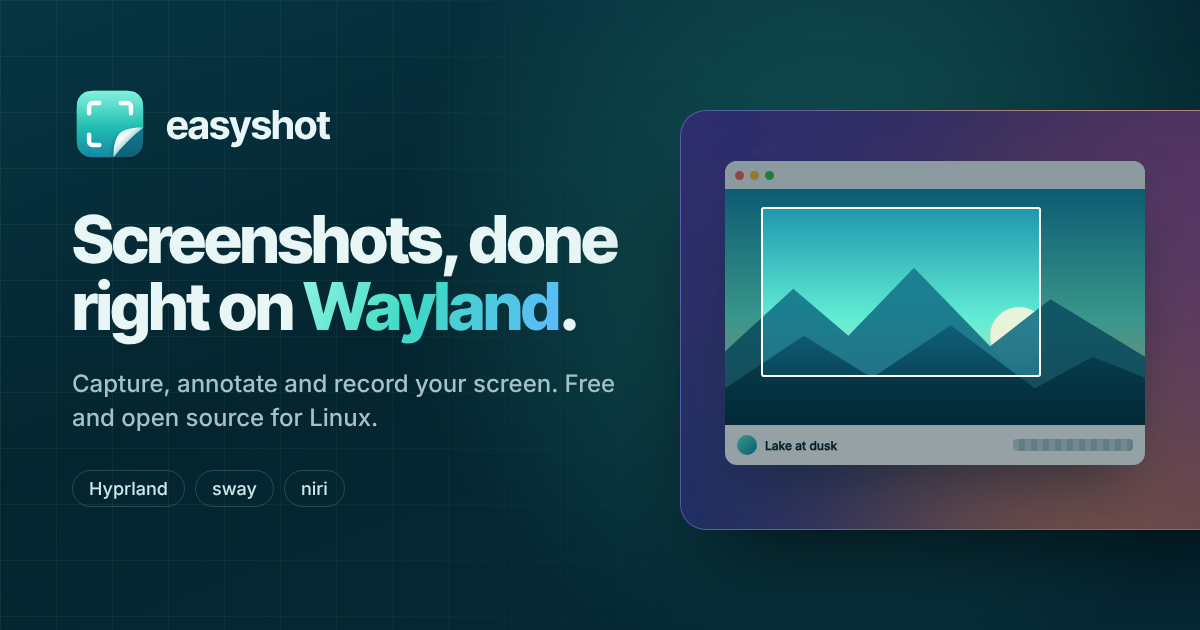
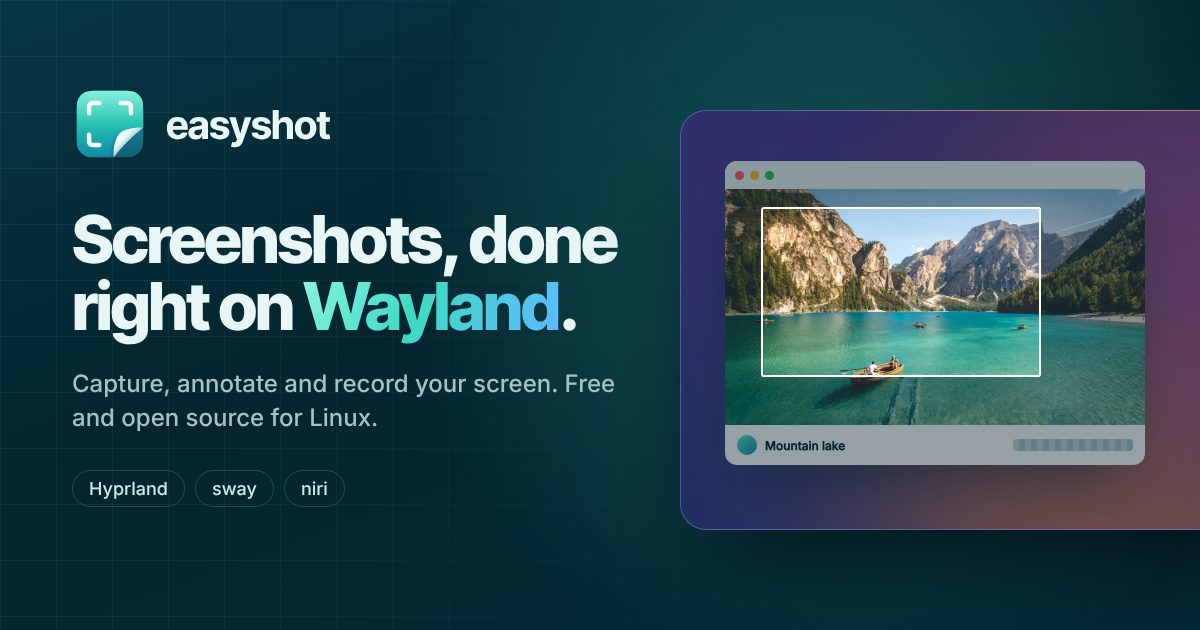
site: host the Unsplash photos, match the early-software status
- The six Unsplash photos are downloaded and served from
  public/img/photos as WebP at five widths, picked with srcset, instead
  of being hotlinked. Each was looked at; the alt texts and titles now
  describe what is in them.
- The OG image shows the lake photo in its captured window.
- The recording mock-up no longer lets the control bar cover the
  window, at any width.
- The FAQ says easyshot is early software, as the manual now does: one
  real session on Hyprland, sway headless only, niri not yet.
- README: how the photos are stored and how to add one.

Claude-Session: https://claude.ai/code/session_01Y8JhFuNa4ejHbJ32YUwwD1

Changed region(s): [[0.5858, 0.3016, 0.9558, 0.7238]]

diff --git a/docs/site/app/components/FeatureBento.vue b/docs/site/app/components/FeatureBento.vue
@@ -25,7 +25,7 @@ const tiles = [
       <div class="pointer-events-none relative mb-5 h-[92px]" aria-hidden="true">
         <!-- area -->
         <div v-if="t.art === 'area'" class="absolute inset-0 overflow-hidden rounded-xl bg-[url(/img/landscape.svg)] bg-cover">
-          <img :src="photoUrl('valley', 640)" alt="" class="absolute inset-0 size-full object-cover" loading="lazy" width="640" height="360" referrerpolicy="no-referrer" onerror="this.style.display='none'" />
+          <img :src="photoUrl('valley', 640)" alt="" class="absolute inset-0 size-full object-cover" loading="lazy" width="640" height="360" onerror="this.style.display='none'" />
           <div class="absolute inset-[18%_30%_18%_22%] rounded border-[1.5px] border-white shadow-[0_0_0_999px_rgba(3,30,40,.35)] transition-all duration-700 ease-out-soft group-hover:inset-[12%_18%_12%_14%]" />
           <span class="absolute right-3 bottom-2 rounded bg-teal-ink/80 px-1.5 font-mono text-[10px] text-white">640 × 360</span>
         </div>
@@ -53,7 +53,7 @@ const tiles = [
         </div>
         <!-- pin -->
         <div v-else-if="t.art === 'pin'" class="absolute inset-0 grid place-items-center">
-          <img :src="photoUrl('fog', 400)" alt="" class="aspect-[16/10] w-28 rounded-lg bg-[url(/img/landscape.svg)] bg-cover object-cover shadow-card ring-2 ring-white transition-transform duration-500 ease-out-soft group-hover:-translate-y-1.5 group-hover:-rotate-3" loading="lazy" width="400" height="250" referrerpolicy="no-referrer" onerror="this.onerror=null;this.src='/img/landscape.svg'" />
+          <img :src="photoUrl('fog', 400)" alt="" class="aspect-[16/10] w-28 rounded-lg bg-[url(/img/landscape.svg)] bg-cover object-cover shadow-card ring-2 ring-white transition-transform duration-500 ease-out-soft group-hover:-translate-y-1.5 group-hover:-rotate-3" loading="lazy" width="400" height="250" onerror="this.onerror=null;this.src='/img/landscape.svg'" />
         </div>
         <!-- timer -->
         <div v-else-if="t.art === 'timer'" class="absolute inset-0 flex items-center gap-2">
@@ -68,7 +68,7 @@ const tiles = [
         </div>
         <!-- deck -->
         <div v-else-if="t.art === 'deck'" class="absolute inset-0 flex items-end gap-2">
-          <img v-for="(k, n) in (['forest', 'lake', 'valley'] as const)" :key="k" :src="photoUrl(k, 400)" alt="" loading="lazy" width="400" height="250" referrerpolicy="no-referrer" onerror="this.onerror=null;this.src='/img/landscape.svg'" class="aspect-[16/10] w-[30%] max-w-28 rounded-lg border border-line bg-[url(/img/landscape.svg)] bg-cover object-cover shadow-card transition-transform duration-500 ease-out-soft group-hover:-translate-y-2" :style="{ transitionDelay: `${n * 60}ms` }" />
+          <img v-for="(k, n) in (['forest', 'lake', 'valley'] as const)" :key="k" :src="photoUrl(k, 400)" alt="" loading="lazy" width="400" height="250" onerror="this.onerror=null;this.src='/img/landscape.svg'" class="aspect-[16/10] w-[30%] max-w-28 rounded-lg border border-line bg-[url(/img/landscape.svg)] bg-cover object-cover shadow-card transition-transform duration-500 ease-out-soft group-hover:-translate-y-2" :style="{ transitionDelay: `${n * 60}ms` }" />
         </div>
       </div>
       <div class="grid gap-1.5">

diff --git a/docs/site/app/utils/photos.ts b/docs/site/app/utils/photos.ts
@@ -1,20 +1,24 @@
-// Unsplash photos, hotlinked from images.unsplash.com as the Unsplash licence allows.
-// Each sits on /img/landscape.svg, so a photo that fails to load leaves a drawn landscape.
+// Unsplash photos (https://unsplash.com/license), downloaded and served from public/img/photos
+// as WebP at 400, 640, 1080, 1600 and 2200 px wide. `id` is the Unsplash photo ID they came from.
+// Each sits on /img/landscape.svg, so a file that fails to load leaves a drawn landscape.
 export const photos = {
-  valley: { id: '1506744038136-46273834b3fb', alt: 'A mountain valley at sunrise', title: 'Valley at first light' },
-  lake: { id: '1501785888041-af3ef285b470', alt: 'A lake below mountains at dusk', title: 'Lake at dusk' },
-  forest: { id: '1441974231531-c6227db76b6e', alt: 'Sunlight through a green forest', title: 'Morning in the forest' },
-  fog: { id: '1470071459604-3b5ec3a7fe05', alt: 'Fog over green hills', title: 'Fog over the hills' },
-  stars: { id: '1519681393784-d120267933ba', alt: 'Snowy mountains under a starry sky', title: 'Night over the peaks' },
-  desk: { id: '1498050108023-c5249f4df085', alt: 'A laptop showing code on a desk', title: 'Late-night build' },
+  valley: { id: '1506744038136-46273834b3fb', alt: 'A misty valley with a river and pine trees at dawn', title: 'Valley at first light' },
+  lake: { id: '1501785888041-af3ef285b470', alt: 'A rowing boat on a turquoise mountain lake', title: 'Mountain lake' },
+  forest: { id: '1441974231531-c6227db76b6e', alt: 'Sunlight through tall trees in a forest', title: 'Morning in the forest' },
+  fog: { id: '1470071459604-3b5ec3a7fe05', alt: 'Fog rolling over green hills at sunrise', title: 'Fog over the hills' },
+  stars: { id: '1519681393784-d120267933ba', alt: 'The Milky Way over snowy mountains', title: 'Night over the peaks' },
+  desk: { id: '1498050108023-c5249f4df085', alt: 'A laptop showing code on a white desk', title: 'Late-night build' },
 } as const
 
 export type PhotoKey = keyof typeof photos
 
+const widths = [400, 640, 1080, 1600, 2200] as const
+
 export function photoUrl(key: PhotoKey, width = 1600) {
-  return `https://images.unsplash.com/photo-${photos[key].id}?auto=format&fit=crop&w=${width}&q=75`
+  const w = widths.find((x) => x >= width) ?? 2200
+  return `/img/photos/${key}-${w}.webp`
 }
 
 export function photoSrcset(key: PhotoKey) {
-  return [640, 1080, 1600, 2200].map((w) => `${photoUrl(key, w)} ${w}w`).join(', ')
+  return widths.map((w) => `${photoUrl(key, w)} ${w}w`).join(', ')
 }

diff --git a/docs/site/app/components/RecordMock.vue b/docs/site/app/components/RecordMock.vue
@@ -15,15 +15,15 @@ const clock = computed(() => `${String(Math.floor(seconds.value / 60)).padStart(
 <template>
   <div class="relative overflow-hidden rounded-[22px] border border-line-strong shadow-float">
     <div class="absolute inset-0 bg-[url(/img/wall-5.webp)] bg-cover bg-center" />
-    <img :src="photoUrl('stars', 1600)" :srcset="photoSrcset('stars')" sizes="(min-width: 1024px) 640px, 100vw" alt="" class="absolute inset-0 size-full object-cover" width="1600" height="900" loading="lazy" referrerpolicy="no-referrer" onerror="this.style.display='none'" />
+    <img :src="photoUrl('stars', 1600)" :srcset="photoSrcset('stars')" sizes="(min-width: 1024px) 640px, 100vw" alt="" class="absolute inset-0 size-full object-cover" width="1600" height="900" loading="lazy" onerror="this.style.display='none'" />
     <div class="relative aspect-[16/10]">
-      <div class="absolute top-[9%] left-1/2 w-[64%] -translate-x-1/2 rounded-xl shadow-[0_0_0_9999px_rgba(3,30,40,.5)]">
+      <div class="absolute top-[6%] left-1/2 w-[50%] -translate-x-1/2 sm:w-[56%] rounded-xl shadow-[0_0_0_9999px_rgba(3,30,40,.5)]">
         <ShotWindow photo="desk" />
         <div class="rec-ring absolute -inset-[3px] rounded-[14px] border-2 border-[#ff4f6d]" />
       </div>
 
       <!-- Control bar -->
-      <div class="absolute bottom-[7%] left-1/2 flex -translate-x-1/2 items-center gap-1 rounded-full border border-white/15 bg-teal-ink/85 p-1.5 text-white shadow-2xl backdrop-blur-xl">
+      <div class="absolute bottom-[4%] left-1/2 flex -translate-x-1/2 origin-bottom items-center max-sm:scale-[.82] gap-1 rounded-full border border-white/15 bg-teal-ink/85 p-1.5 text-white shadow-2xl backdrop-blur-xl">
         <button type="button" class="flex items-center gap-2 rounded-full bg-[#ff4f6d] px-3 py-1.5 text-xs font-semibold" aria-label="Stop recording">
           <span class="size-2.5 rounded-[3px] bg-white" />
           <span class="font-mono tabular-nums">{{ clock }}</span>

diff --git a/docs/site/app/pages/index.vue b/docs/site/app/pages/index.vue
@@ -19,7 +19,7 @@ const faq = [
   },
   {
     q: 'Does it work today?',
-    a: 'Yes, from source. It has been installed and used on Hyprland, and tested in headless sway. It has not run on niri yet. The <a class="text-accent underline" href="/how-to">how-to</a> shows how to build it.',
+    a: 'Yes, from source, but it is early software. It runs end to end and has had its first real session on Hyprland; sway has been tested headless, and niri not yet. Expect rough edges, and please report what you find. The <a class="text-accent underline" href="/how-to">how-to</a> shows how to build it.',
   },
   {
     q: 'How do I install it?',

diff --git a/docs/site/app/components/ShotWindow.vue b/docs/site/app/components/ShotWindow.vue
@@ -27,7 +27,7 @@ const p = computed(() => photos[props.photo])
         height="900"
         :loading="eager ? 'eager' : 'lazy'"
         decoding="async"
-        referrerpolicy="no-referrer"
+       
         onerror="this.style.display='none'"
       />
       <slot />

diff --git a/docs/site/app/components/HeroShot.vue b/docs/site/app/components/HeroShot.vue
@@ -17,7 +17,7 @@
         width="1600"
         height="900"
         fetchpriority="high"
-        referrerpolicy="no-referrer"
+       
         onerror="this.style.display='none'"
       />
 

diff --git a/docs/site/README.md b/docs/site/README.md
@@ -17,16 +17,16 @@ wallpapers (`assets/wallpapers/`), and icons from its Lucide set (`assets/icons/
 
 ## Photos
 
-The pictures inside the mock-ups are Unsplash photos, listed by ID in `app/utils/photos.ts`
-and hotlinked from `images.unsplash.com`, which the
-[Unsplash licence](https://unsplash.com/license) allows. Every photo sits on a drawn
-landscape, `public/img/landscape.svg`, so a photo that fails to load leaves that instead of a
-broken image. To swap one, change its ID; to self-host, download the files into
-`public/img/` and change `photoUrl()`.
+The pictures inside the mock-ups are six Unsplash photos, used under the
+[Unsplash licence](https://unsplash.com/license). They are listed with their Unsplash IDs in
+`app/utils/photos.ts` and served from `public/img/photos/` as WebP at 400, 640, 1080, 1600
+and 2200 px wide (`<name>-<width>.webp`), picked with `srcset`. Each sits on a drawn
+landscape, `public/img/landscape.svg`, shown if a file fails to load.
 
-The photos were chosen by ID and have not been looked at: the machine that built the site
-could not reach `images.unsplash.com`. Check each one in a browser, and add photographer
-credits (not required by the licence, but good manners) once you have.
+To add or swap one, download it from
+`https://images.unsplash.com/photo-<id>?fm=jpg&fit=crop&w=2200&h=1238&q=82`, write the five
+WebP sizes with the same names, and add it to `photos.ts`. The licence does not require
+credit; photographer names can be added from each photo's Unsplash page.
 
 ## Theme
 
